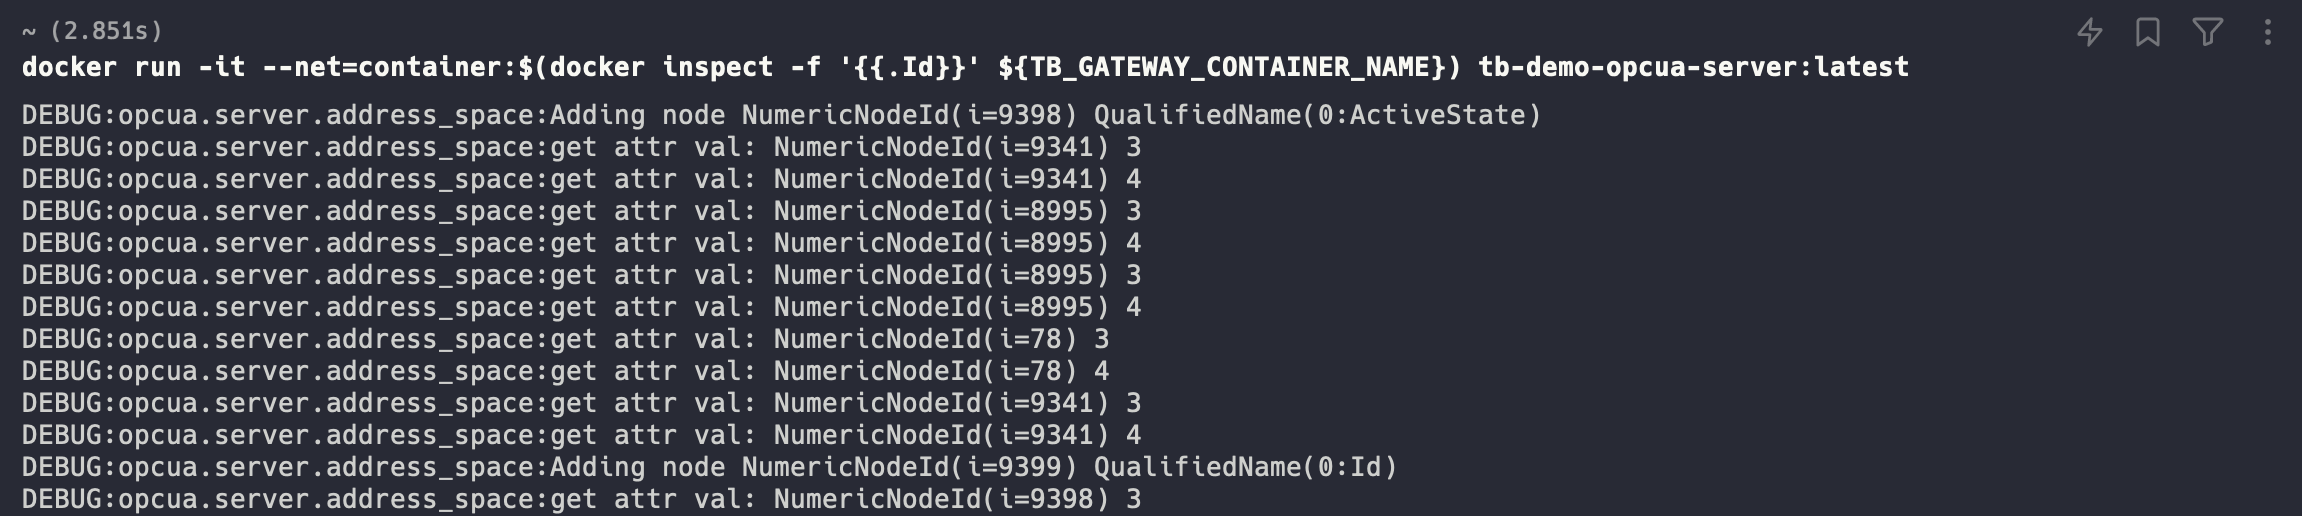
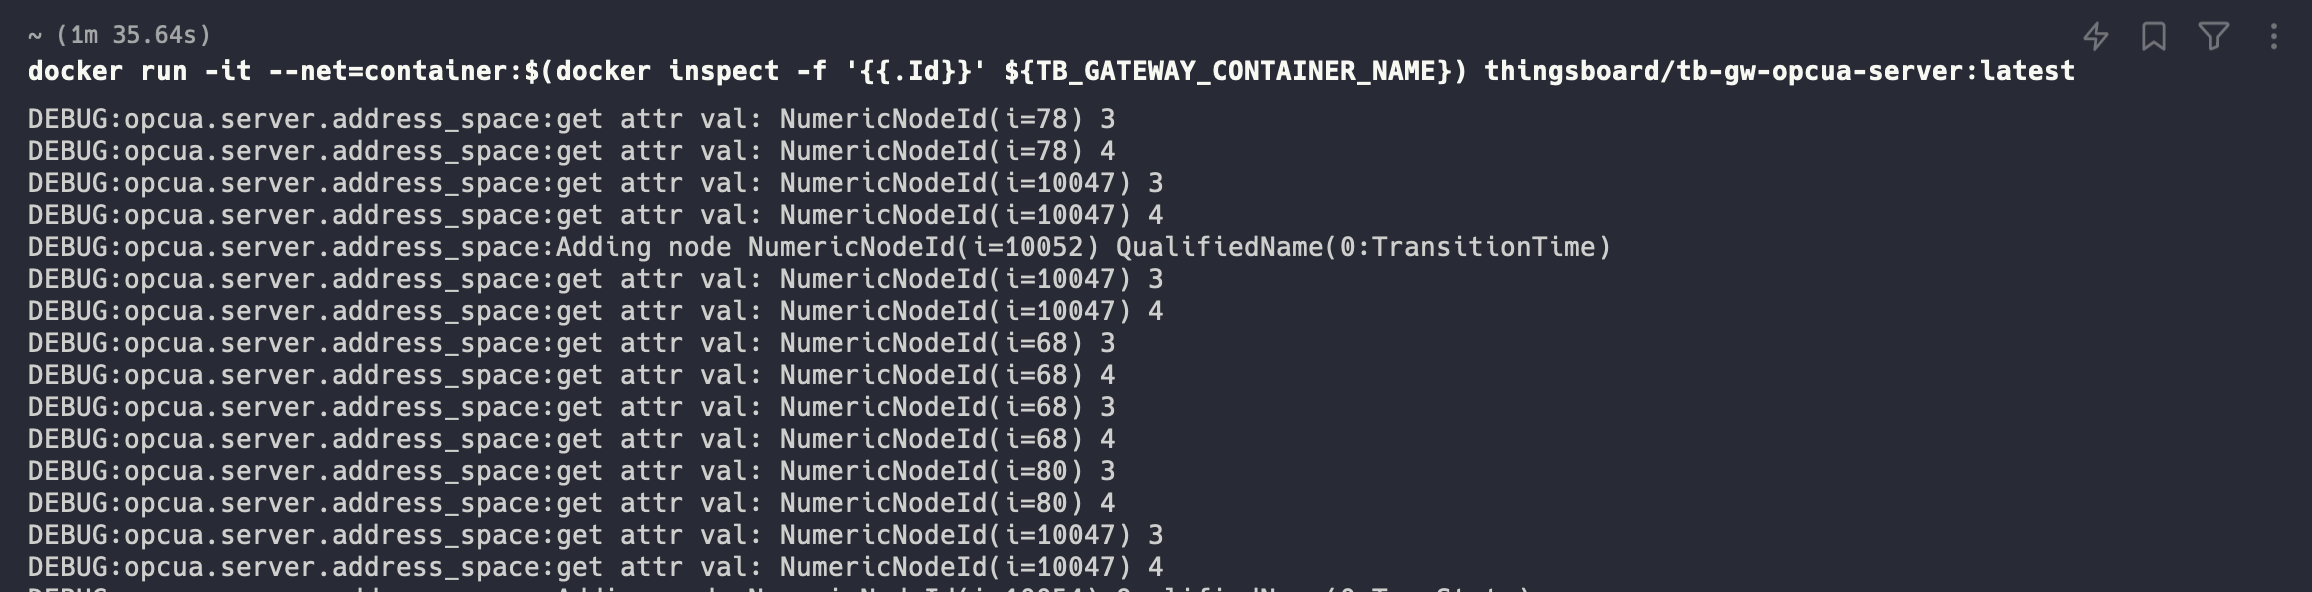
Added additional step

Changed region(s): [[0.0, 0.186, 0.7094, 1.0], [0.0, 0.031, 0.8944, 0.155], [0.8944, 0.031, 0.987, 0.093]]

diff --git a/docs/iot-gateway/getting-started.md b/docs/iot-gateway/getting-started.md
@@ -103,7 +103,24 @@ After running gateway docker image, you can see the following logs in your termi
 
 ![](/images/gateway/dashboard/launch-gateway-docker.png)
 
-## Step 2. Add new connector
+## Step 2. Enable remote logging
+
+To view gateway and connector logs on the dashboard, you need to enable remote logging. For this purpose, 
+use the following steps:
+
+{% assign enableRemoteLogging = '
+    ===
+        image: /images/gateway/dashboard/general-configuration-1-ce.png,
+        title: On the gateway dashboard, click on **"General configuration"** button on the right panel.
+    ===
+        image: /images/gateway/dashboard/general-configuration-2-ce.png,
+        title: Navigate to the "**Logs**" tab. Enable the "**Remote logs**" toggle. Select "**DEBUG**" in the "**Log level**" row.
+'
+%}
+
+{% include images-gallery.liquid showListImageTitles="true" imageCollection=enableRemoteLogging %}
+
+## Step 3. Add new connector
 
 By choosing the type of connector, you determine the specific method of connection you will use to ensure the 
 interaction of your gateway with other systems or devices.
@@ -117,7 +134,7 @@ OPC-UA<small></small>%,%opcua%,%templates/iot-gateway/remote-creating-connector-
 
 {% include content-toggle.html content-toggle-id="connectorsCreation" toggle-spec=connectorscreationspec %}
 
-## Step 3. Check device data
+## Step 4. Check device data
 
 To review the data uploaded from your gateway, use the following steps:
 

diff --git a/_includes/templates/iot-gateway/remote-creating-connector-modbus.md b/_includes/templates/iot-gateway/remote-creating-connector-modbus.md
@@ -26,7 +26,7 @@ Copy and execute the following command in your terminal:
 {% assign containerId = "{" | append: "{" | append: ".Id" | append: "}" | append: "}" %}
 
 ```shell
-docker run -it --net=container:$(docker inspect -f '{{containerId}}' ${TB_GATEWAY_CONTAINER_NAME}) tb-demo-modbus-server:latest
+docker run -it --net=container:$(docker inspect -f '{{containerId}}' ${TB_GATEWAY_CONTAINER_NAME}) thingsboard/tb-gw-modbus-server:latest
 ```
 {:.copy-code}
 

diff --git a/_includes/templates/iot-gateway/remote-creating-connector-opcua.md b/_includes/templates/iot-gateway/remote-creating-connector-opcua.md
@@ -27,7 +27,7 @@ Copy and execute the following command in your terminal:
 {% assign containerId = "{" | append: "{" | append: ".Id" | append: "}" | append: "}" %}
 
 ```shell
-docker run -it --net=container:$(docker inspect -f '{{containerId}}' ${TB_GATEWAY_CONTAINER_NAME}) tb-demo-opcua-server:latest
+docker run -it --net=container:$(docker inspect -f '{{containerId}}' ${TB_GATEWAY_CONTAINER_NAME}) thingsboard/tb-gw-opcua-server:latest
 ```
 {:.copy-code}
 

diff --git a/_includes/templates/iot-gateway/remote-creating-connector-mqtt.md b/_includes/templates/iot-gateway/remote-creating-connector-mqtt.md
@@ -27,7 +27,7 @@ Copy and execute the following command in your terminal:
 {% assign containerId = "{" | append: "{" | append: ".Id" | append: "}" | append: "}" %}
 
 ```shell
-docker run -it --net=container:$(docker inspect -f '{{containerId}}' ${TB_GATEWAY_CONTAINER_NAME}) tb-demo-mqtt-broker:latest
+docker run -it --net=container:$(docker inspect -f '{{containerId}}' ${TB_GATEWAY_CONTAINER_NAME}) thingsboard/tb-gw-mqtt-broker:latest
 ```
 {:.copy-code}
 
